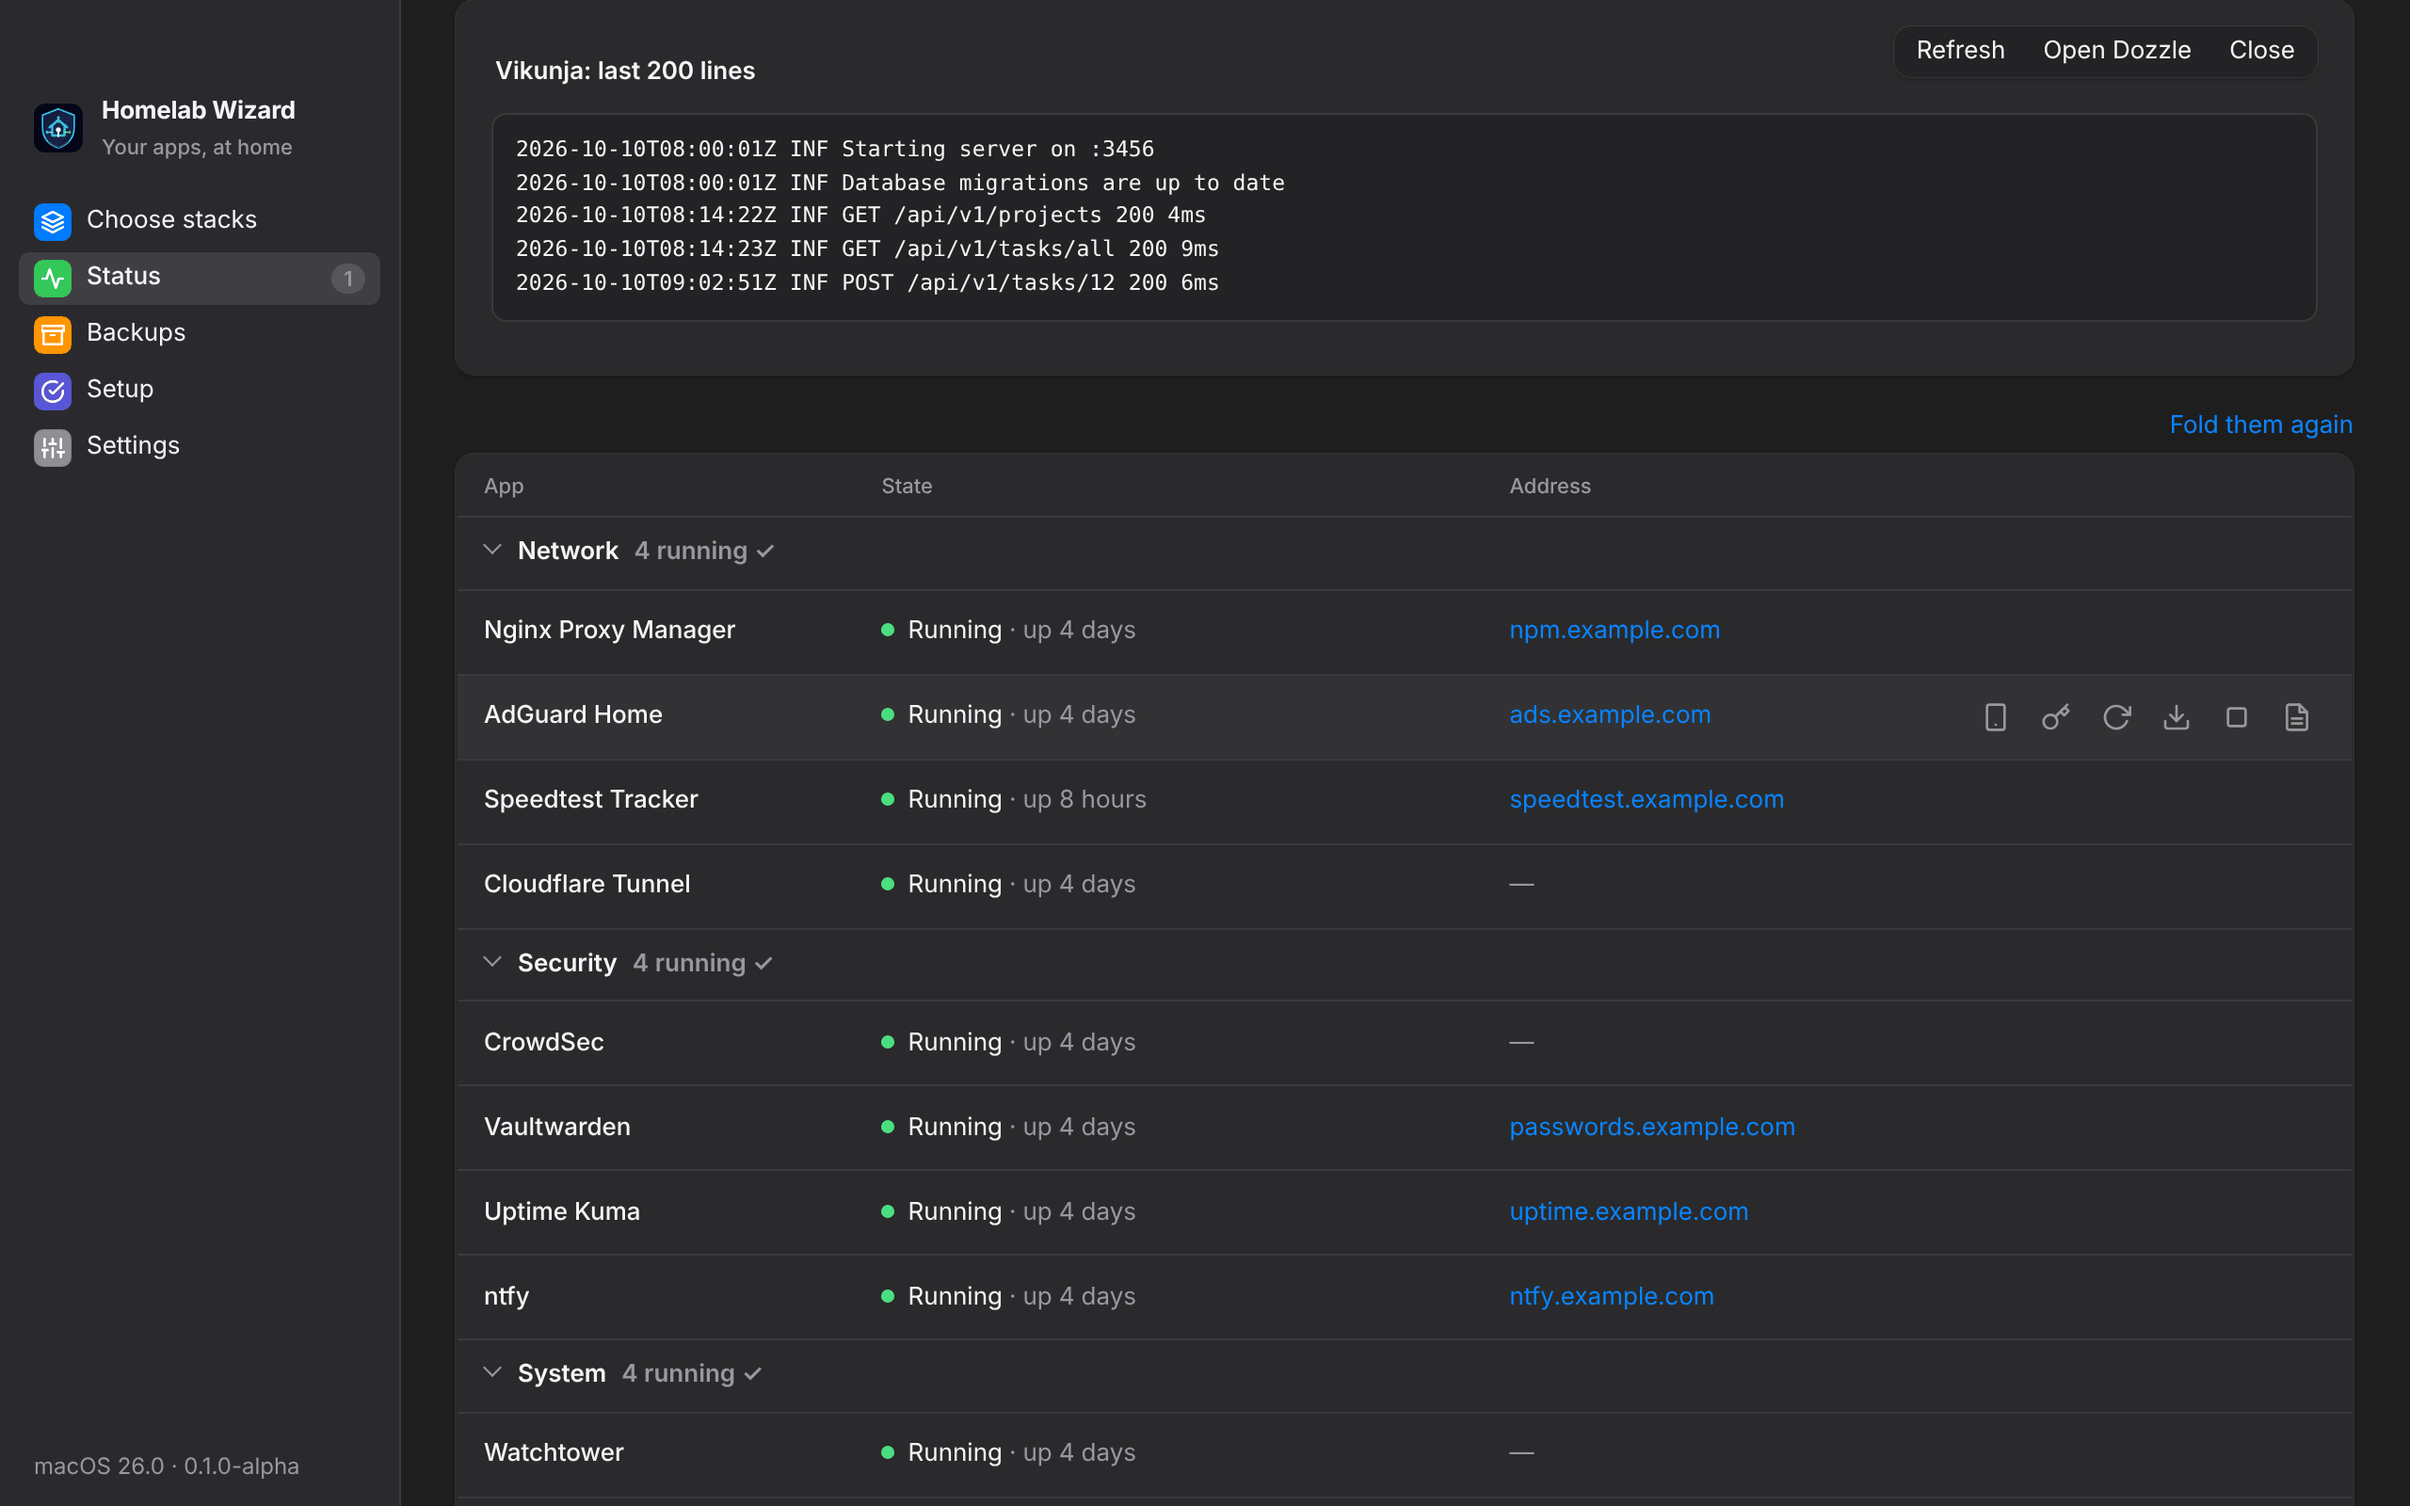
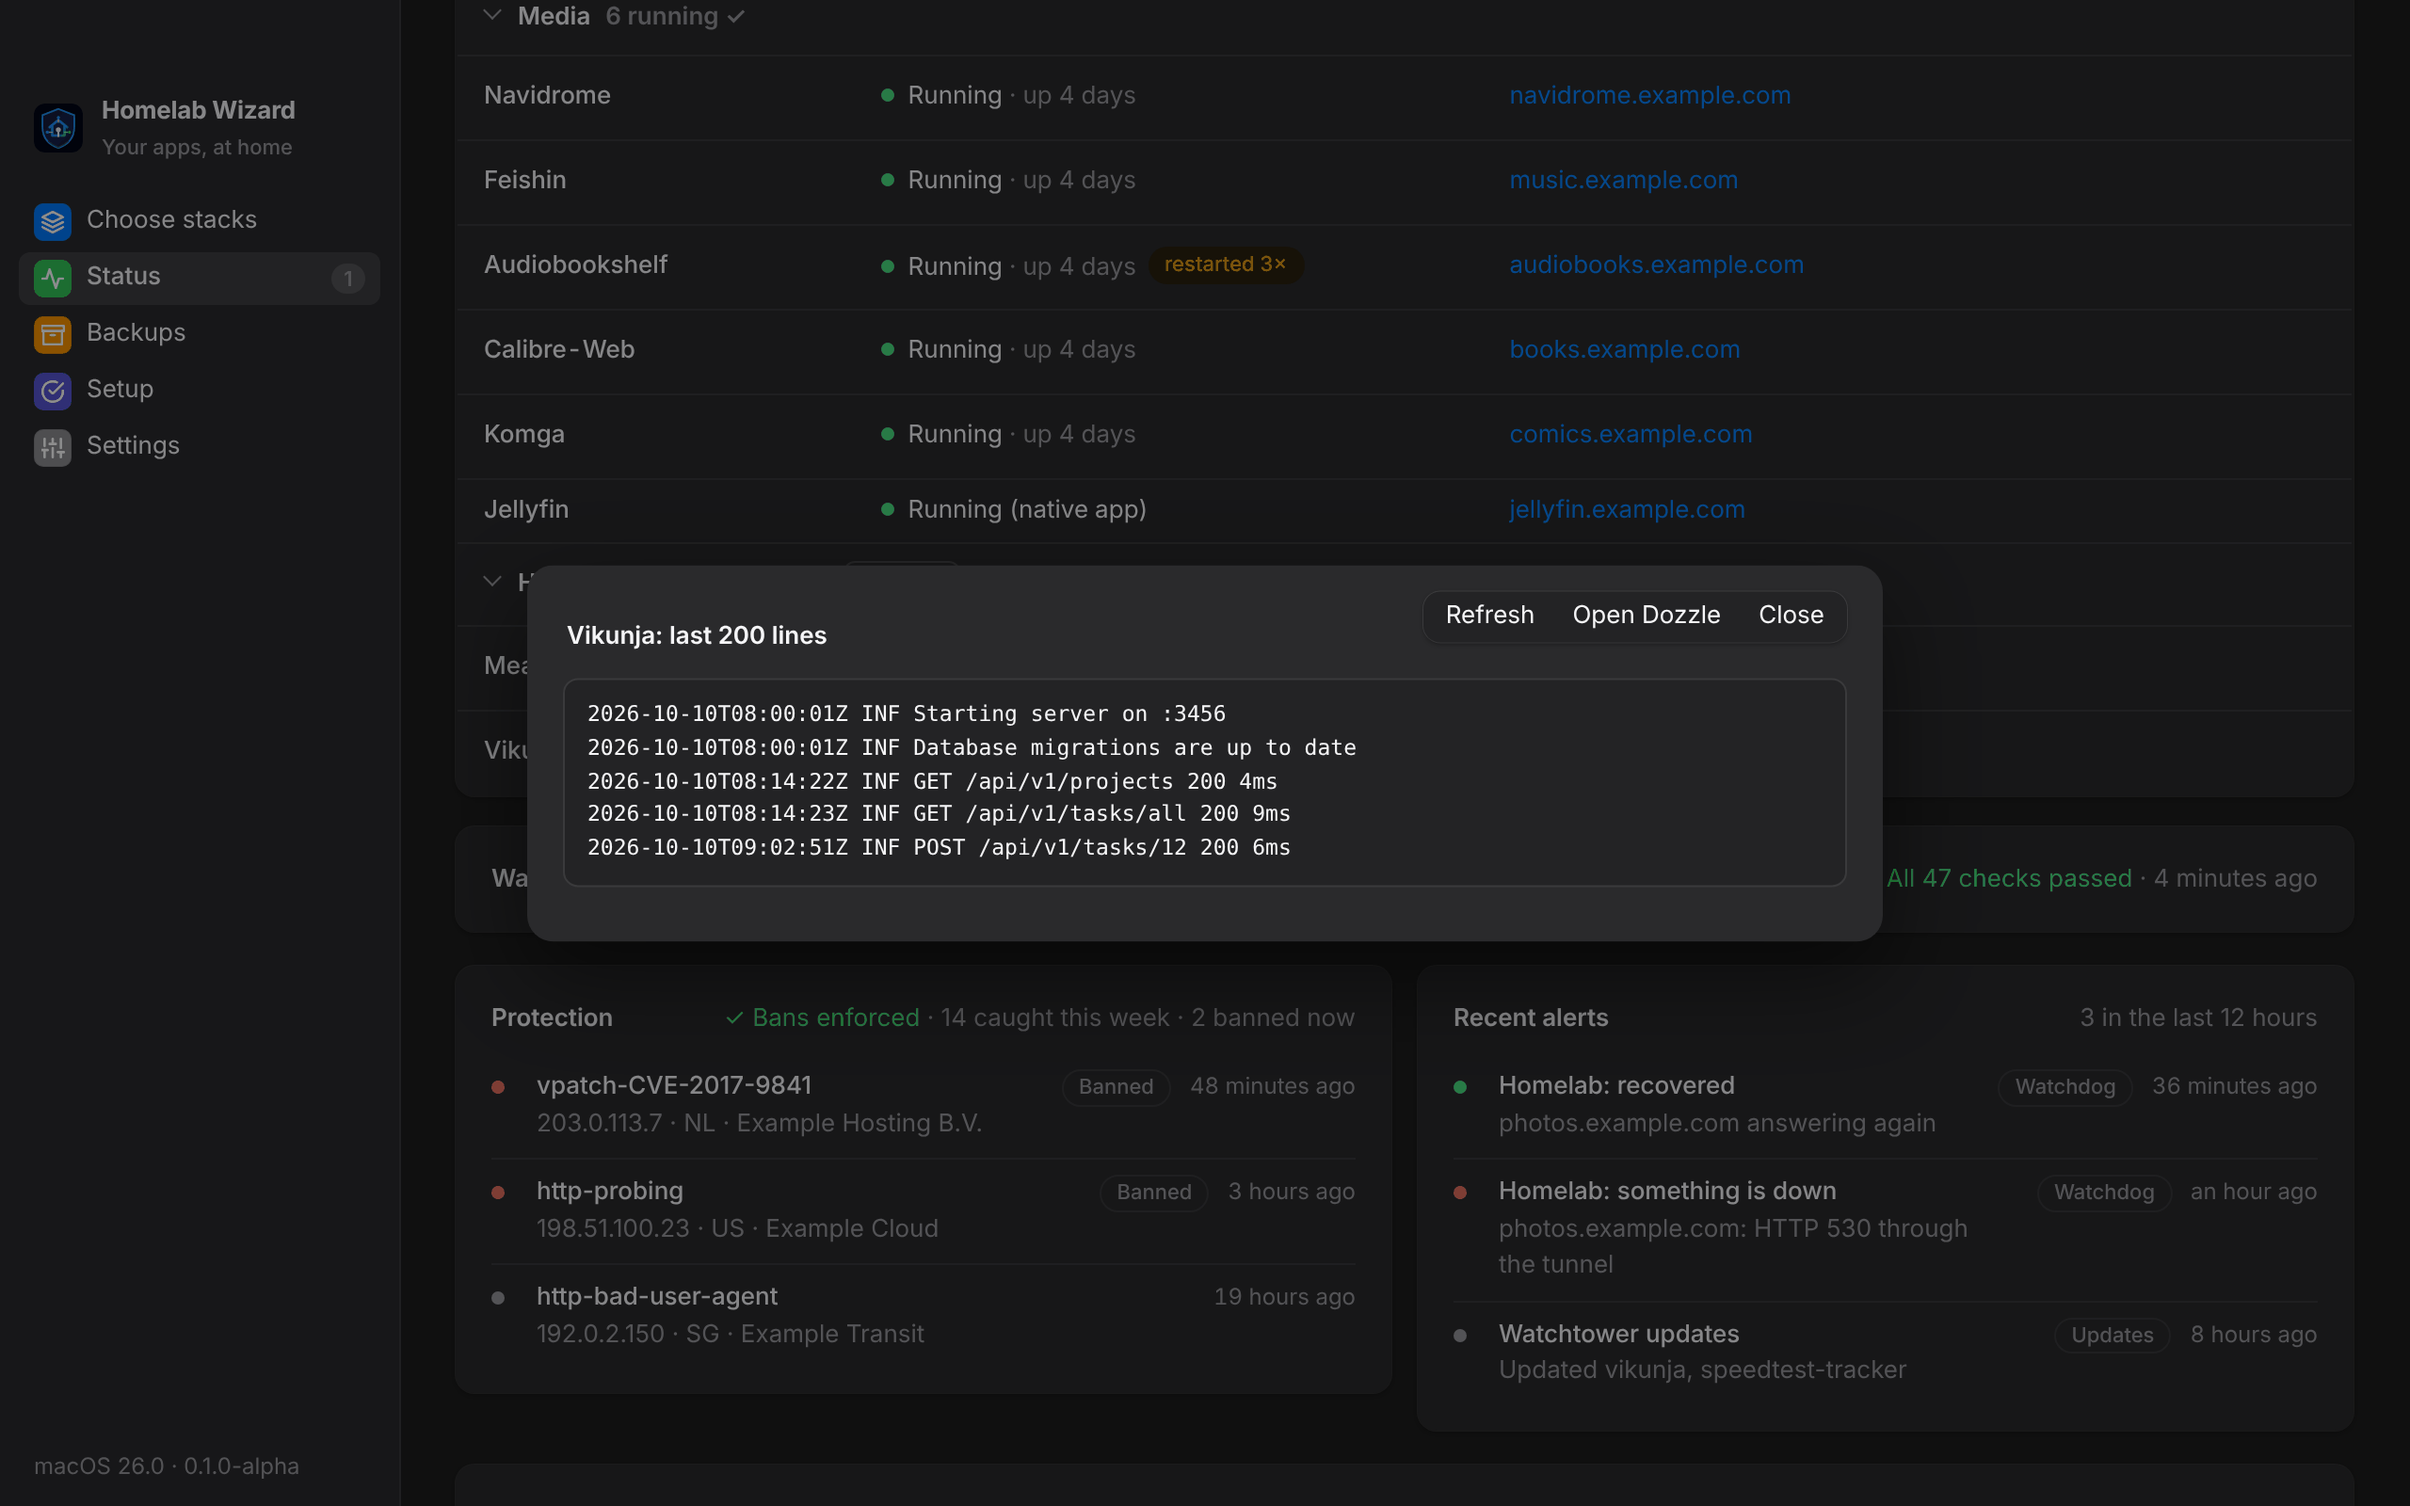
The command and log panels open as sheets (#81)

diff --git a/web/dist/style.css b/web/dist/style.css
@@ -266,7 +266,7 @@ html.os-mac button.primary { border-radius:6px; }
   html.os-mac.preview body { background:#2a2a2e; }
   html.os-mac nav button.active { background:rgba(255,255,255,.12); }
   html.os-mac nav .count { background:rgba(255,255,255,.12); }
-  html.os-mac .btn, html.os-mac button.small { border-color:rgba(255,255,255,.14); background:rgba(255,255,255,.08); }
+  html.os-mac .btn:not(.primary), html.os-mac button.small:not(.primary) { border-color:rgba(255,255,255,.14); background:rgba(255,255,255,.08); }
 }
 
 /* Windows 11: Segoe UI Variable, the navigation pane on Mica where Windows
@@ -747,3 +747,19 @@ html:is(.os-mac, .os-windows, .os-linux) .header .toolbar:not(:has(input)) .btn.
 /* Choose stacks while searching: the matches first, without the starters
    and presets above them. */
 #choose.searching #starterBox, #choose.searching #more > h2, #choose.searching #presets { display:none; }
+
+/* The command and log panels as sheets: a card over the dimmed screen, as
+   a sheet on macOS, a content dialog on Windows, a dialog in GNOME. */
+.panel.sheet:not([hidden]) { position:fixed; z-index:40; left:50%; top:50%; transform:translate(-50%, -50%); width:min(720px, calc(100vw - 48px)); max-height:min(78vh, 720px); margin:0; overflow:auto; box-shadow:0 18px 50px rgba(0,0,0,.28); animation:sheet-in .18s ease-out; }
+.panel.sheet pre { max-height:46vh; overflow:auto; }
+.panel.sheet:focus { outline:none; }
+@keyframes sheet-in { from { opacity:0; transform:translate(-50%, -48%) scale(.98); } }
+@media (prefers-reduced-motion: reduce) { .panel.sheet:not([hidden]) { animation:none; } }
+html.sheet-open body::after { content:""; position:fixed; inset:0; z-index:39; background:rgba(0,0,0,.28); animation:sheet-dim .18s ease-out; }
+@keyframes sheet-dim { from { opacity:0; } }
+@media (prefers-reduced-motion: reduce) { html.sheet-open body::after { animation:none; } }
+@media (prefers-color-scheme: dark) { .panel.sheet:not([hidden]) { box-shadow:0 18px 50px rgba(0,0,0,.5); } html.sheet-open body::after { background:rgba(0,0,0,.45); } }
+html.os-mac .panel.sheet:not([hidden]) { border-radius:14px; }
+html.os-windows .panel.sheet:not([hidden]) { border-radius:8px; }
+html.os-linux .panel.sheet:not([hidden]) { border-radius:14px; }
+html.companion .panel.sheet:not([hidden]) { width:calc(100vw - 24px); max-height:85vh; }

diff --git a/web/dist/app.js b/web/dist/app.js
@@ -942,6 +942,29 @@ async function showLogs(a) {
   panel.scrollIntoView({ block: 'nearest' });
 }
 
+// The command and log panels are sheets: over the screen, with the focus
+// in them while open and back where it was after, and Escape to close one
+// through its own Close or Cancel (a command still running has neither).
+for (const panel of document.querySelectorAll('.panel.sheet')) {
+  let before = null;
+  new MutationObserver(() => {
+    document.documentElement.classList.toggle('sheet-open', !!document.querySelector('.panel.sheet:not([hidden])'));
+    if (!panel.hidden) {
+      if (!panel.contains(document.activeElement)) before = document.activeElement;
+      requestAnimationFrame(() => (panel.querySelector('button:not([disabled])') || panel).focus());
+    } else if (before && document.contains(before)) {
+      before.focus();
+      before = null;
+    }
+  }).observe(panel, { attributes: true, attributeFilter: ['hidden'] });
+}
+document.addEventListener('keydown', (e) => {
+  if (e.key !== 'Escape') return;
+  const open = [...document.querySelectorAll('.panel.sheet:not([hidden])')].pop();
+  const close = open && [...open.querySelectorAll('button:not([disabled])')].find((b) => /^(Close|Cancel)$/.test(b.textContent.trim()));
+  if (close) { e.preventDefault(); close.click(); }
+});
+
 // A homelab command with a preview: show its plan, then run it on confirm.
 let cliStop = null; // the open flow's log listener
 async function cliFlow(title, action, target, confirmLabel) {
@@ -952,7 +975,12 @@ async function cliFlow(title, action, target, confirmLabel) {
   $('cliTitle').textContent = title;
   log.textContent = '';
   actions.replaceChildren();
-  const off = window.runtime.EventsOn('cli:log', (line) => { log.textContent += line + '\n'; log.scrollTop = log.scrollHeight; });
+  // The CLI's "run again with --apply" is the confirm button here.
+  const off = window.runtime.EventsOn('cli:log', (line) => {
+    if (/^Preview only: nothing was changed/.test(line.trim())) return;
+    log.textContent += line + '\n';
+    log.scrollTop = log.scrollHeight;
+  });
   const stop = () => { if (typeof off === 'function') off(); if (cliStop === stop) cliStop = null; };
   cliStop = stop;
   try {

diff --git a/web/dist/index.html b/web/dist/index.html
@@ -79,12 +79,12 @@
           </div></div></div>
     </div>
     <div id="tiles" class="tiles"></div>
-    <div id="cliPanel" class="panel" hidden>
+    <div id="cliPanel" class="panel sheet" role="dialog" aria-modal="true" aria-labelledby="cliTitle" tabindex="-1" hidden>
       <h2 id="cliTitle" aria-live="polite"></h2>
       <pre id="cliLog" role="log"></pre>
       <div id="cliActions" class="actions"></div>
     </div>
-    <div id="logPanel" class="panel" hidden>
+    <div id="logPanel" class="panel sheet" role="dialog" aria-modal="true" aria-labelledby="logTitle" tabindex="-1" hidden>
       <div class="row"><h2 id="logTitle"></h2><span class="actions" id="logActions"></span></div>
       <pre id="logText" role="log"></pre>
     </div>

diff --git a/CHANGELOG.md b/CHANGELOG.md
@@ -6,6 +6,7 @@ All notable changes to this homelab are recorded here. The format follows [Keep 
 
 ### Added
 
+- The command panel (*Update all apps now*, *Fix it*, *Back up now*, …) and an app's logs open as a sheet over the dimmed window instead of at the bottom of the page you might have scrolled away from: the focus moves into it and returns after, and Escape is its Close or Cancel. The panel no longer repeats the CLI's *Preview only: nothing was changed* under its own confirm button. On a Mac in dark mode, a small blue button (*Update them*, *Fix these*) is blue again instead of grey.
 - CI: the app job keeps the GTK and WebKitGTK packages it downloads between runs and asks Ubuntu's own archive before the runners' Azure mirror, which has been taking tens of seconds a package; the step stops after 15 minutes and the job after 20, instead of hanging for hours.
 - Choose stacks: while you search, the matches come first (the starters and presets step aside until the search is cleared); and choosing something new after an install clears that install's steps, which stayed under the new plan.
 - When an app fails to start, the message says why in a line instead of only "exit status 1": *starting homelab_media: the image download from pkg-containers.githubusercontent.com was refused (a firewall, proxy, or the registry itself) (exit status 1)*. A rate-limited registry and an unreachable one get plain words too; anything else shows docker's own last error line, without the long signed part of a download address.
